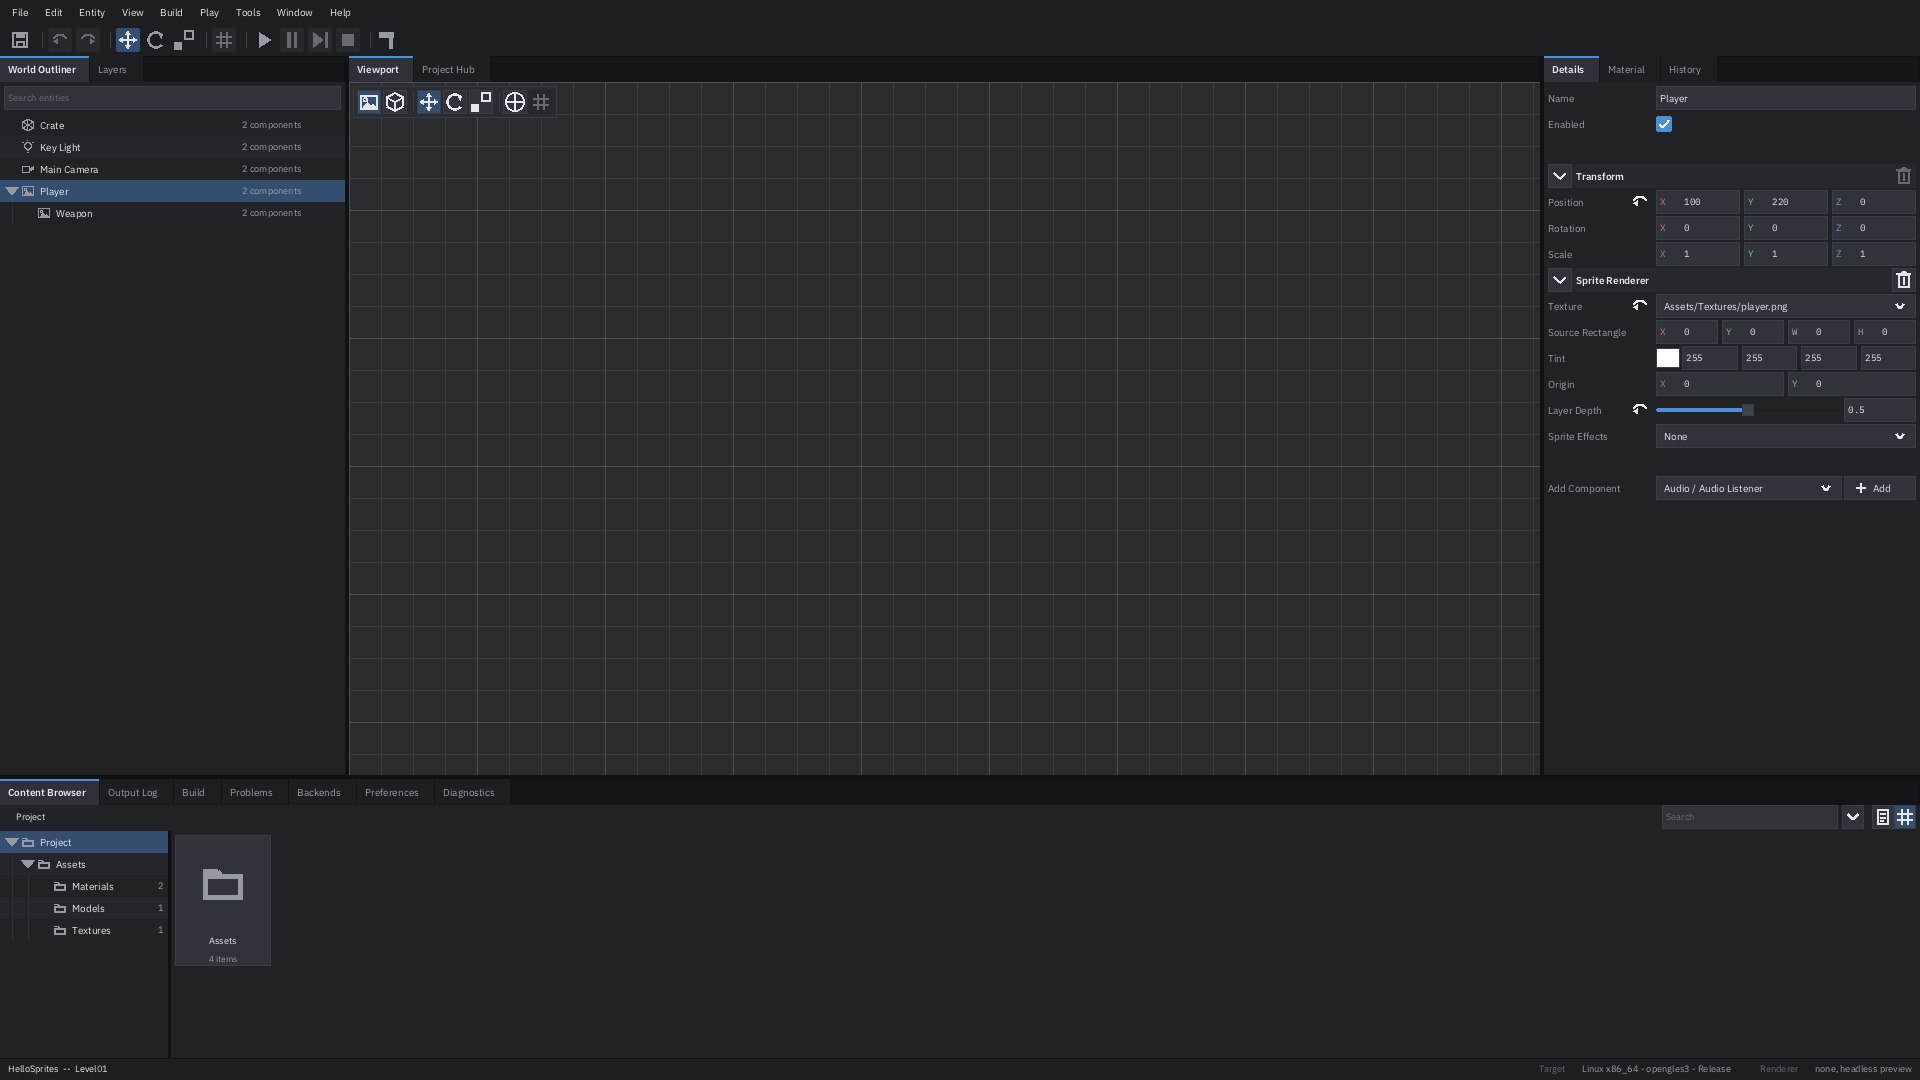
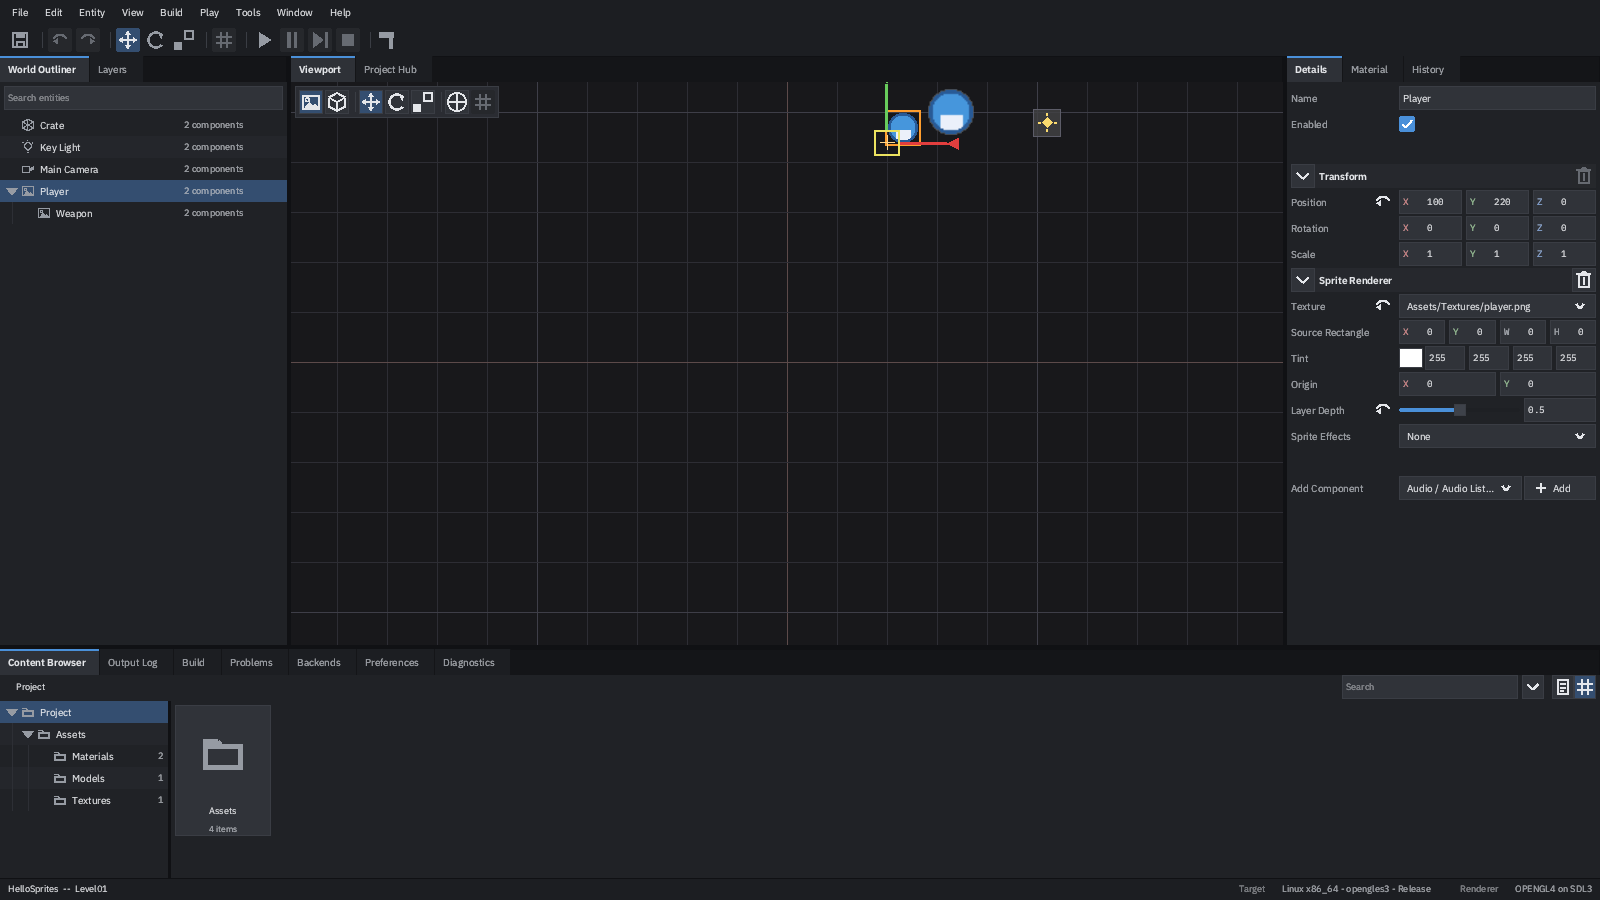
docs: the README screenshots are real frames from a running Studio
The previous commit settled for shell previews and said so, on the grounds
that a headless container cannot open a window. That was true of the SOFTWARE
build -- its renderer does not meet the modern profile the UI renderer needs,
which is what CnaStudioNativeShellRefusesToOpenAWindowHere asserts -- and
false of the OPENGL4 one. Mesa's llvmpipe gives OpenGL 4.5 with no GPU, and
Xvfb gives it a display, so Studio opens, renders and screenshots itself
exactly as it would on a workstation.

What that buys is the two pictures worth having. The shell shot now shows the
project's sprites, the selection outline and the translate gizmo instead of
an empty grid, and the status bar reads OPENGL4 on SDL3 rather than "none,
headless preview". The new 3D shot is CORE-03's whole result in one frame:
Crate.gltf inside its selection box with the pivot cross at the point it
turns about, the key light's range, the sprites edge-on.

The two panel close-ups stay shell previews. That is not a fallback -- the
Build page is taller than its dock, so a window capture shows its top third
and stops, and --shell-panel-only exists for exactly this. The README says
which is which and gives both commands, so neither has to be taken on trust.

Every capture is from build-gl at 1.0.0, so the menu bar has no empty Project
menu and the Details grid is the one CORE-04 left.

diff --git a/README.md b/README.md
@@ -28,11 +28,16 @@ reimplementation of the XNA 4.0 framework.
 
 ![the CNA Studio shell with the HelloSprites example open](docs/images/studio-shell.png)
 
-The shell at 1.0.0 with `examples/HelloSprites` open and `Player` selected: the World Outliner and
-its search, the viewport and its mode strip, the Details grid, the Content Browser, and the status
-bar naming the target. The viewport draws a grid and no scene because these captures are taken
-headlessly, with no graphics device — which is what the status bar's *Renderer: none, headless
-preview* says.
+The shell at 1.0.0 with `examples/HelloSprites` open and `Player` selected, drawn by CNA on the
+OPENGL4 renderer: the World Outliner and its search, the 2D viewport with the project's sprites,
+the selection outline and the translate gizmo on the selected entity, the Details grid, the Content
+Browser, and the status bar naming both the build target and the renderer underneath it.
+
+![the 3D viewport with an entity selected](docs/images/studio-3d-selection.png)
+
+The same scene in the 3D viewport with `Crate` selected — the imported `Crate.gltf` inside its
+selection box, the cross at the point it turns about, the two sprites edge-on, and the key light's
+range drawn as an arc. A multi-selection gets one box round all of it and one pivot between them.
 
 ![the Details panel as a property grid](docs/images/studio-details-grid.png)
 
@@ -46,13 +51,22 @@ The Build panel, against a project created from the `basic-sample` template. The
 platform axes, the optional CNA subsystems, and — before anything runs — the exact `cmake` commands
 Studio would execute, copyable in full. **Build** and **Clean Build** are two separate gestures.
 
-Every capture above is one command against the shipped binary, so they can be reproduced rather
-than believed:
+All four are captures of the shipped binary rather than mock-ups, and each is one command. The
+first two are real frames from a running Studio window; the last two are shell previews, which is
+how a page taller than its dock gets photographed whole:
 
 ```sh
-cna-studio --shell-preview=shell.png --shell-size=1920x1080 \
+# a running window, rendered by CNA
+cna-studio --project=examples/HelloSprites/HelloSprites.cnaproject --select=Player \
+           --window-size=1600x900 --frames=8 --workspace=none --screenshot=shell.png
+
+# a single panel, filling the frame, with no graphics device needed
+cna-studio --shell-preview=details.png --shell-size=820x430 --shell-panel-only=details \
            --project=examples/HelloSprites/HelloSprites.cnaproject --select=Player
 ```
+
+On a headless machine the first command needs a display and a GL driver; `Xvfb` plus Mesa's
+software rasteriser is enough, and is how these were taken.
 
 ---
 
